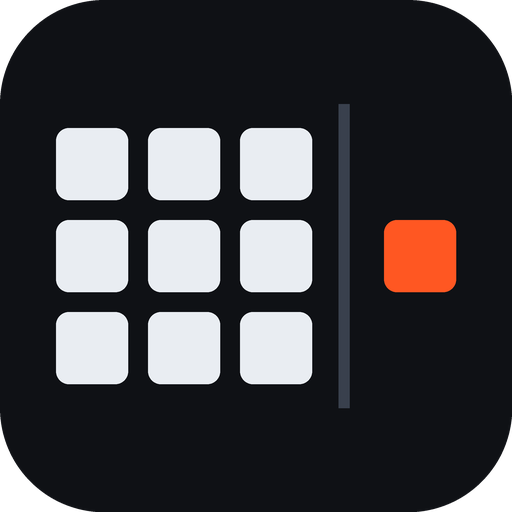
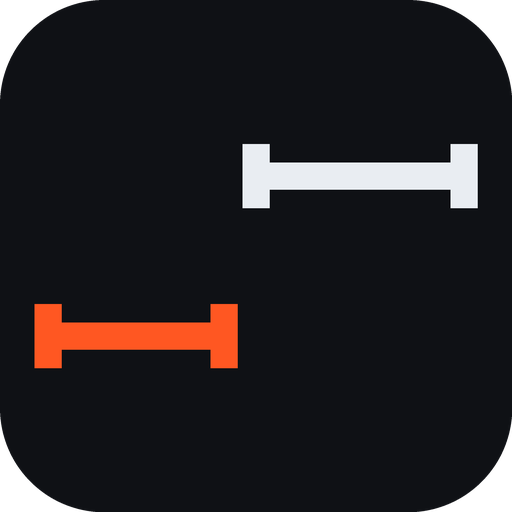
feat: replace the mark with two intervals that do not overlap
The old mark was a tile of cells with one cell outside it. On a dark
rounded square it read as a generic app launcher with a notification
badge, which is not what this is.

The new mark is the claim the tool exists to make: two confidence
intervals, plotted on a time axis running left to right. The orange
interval is the kernel, the light one is the PyTorch baseline
re-measured in the same run, and they do not overlap — which is the
difference between a speedup and a number someone wants to be true.

It encodes both structural rules at once. Never report a bare number:
a single point would be exactly the lie the project refuses to tell.
Re-measure the baseline every run: there are two intervals here, not
one interval against a remembered constant.

Four other directions were drawn and rejected against real renders at
512, 48, 32, 24 and 16px rather than by argument:

- a crucible vessel, for the repo name — becomes a coffee cup at 20px
- a bar chart with one tall bar — the icon every analytics product has
- offset bars for "strides" — reads as a text-align or menu control
- the tile-and-stray-cell mark — the app-launcher problem above

The error-bar form then needed three passes of its own. Equal stroke
weights for line and caps produced a perfect letter H; so did caps
whose height approached the bar's length. Short caps on long bars is
what makes it read as a measurement. That constraint is now a comment
next to CAP_H so the next person does not rediscover it.
[…]

Changed region(s): [[0.0625, 0.1875, 0.9375, 0.8125], [0.75, 0.4062, 0.9062, 0.5938]]

diff --git a/scripts/make_icon.py b/scripts/make_icon.py
@@ -2,10 +2,17 @@
 
     python scripts/make_icon.py
 
-The mark is the product in one glyph: a tile of cells, and one cell that landed
-outside it. That is `1025-contiguous-float32` — the minimal failing case the
-shrinker reports for a kernel that masks against `(n // BLOCK) * BLOCK` instead
-of `n`. The tile is fine. The element past its edge is the bug.
+The mark is the claim this tool exists to make: two confidence intervals that
+do not overlap. Time runs left to right, so the orange interval (the kernel) is
+faster than the white one (the PyTorch baseline, re-measured in the same run),
+and the gap between them is why that is a real result rather than noise.
+
+It encodes the two non-negotiable rules at once — never report a bare number,
+and re-measure the baseline every run. A single point would be exactly the lie
+the project refuses to tell.
+
+An earlier mark drew a tile with one cell outside it. It read as a generic app
+launcher with a notification badge, so it was replaced.
 
 Colours track the mkdocs Material palette (primary black, accent deep orange)
 so the docs site, the README and the favicon are one system.
@@ -22,15 +29,18 @@ from pathlib import Path
 from PIL import Image, ImageDraw, ImageFont
 
 # ── Geometry, in a 64x64 viewBox ──────────────────────────────────────────
+# Each interval is (x0, x1, y). Time runs left to right: the accent interval
+# sits entirely left of the light one, and they do not touch. Do not let them
+# overlap — an overlap is the picture of an unproven speedup.
 VIEW = 64.0
-CELL = 9.0
-GAP = 2.5
-TILE_X, TILE_Y = 7.0, 16.0
-ROWS = COLS = 3
-BOUNDARY_X = 43.0
-STRAY_X, STRAY_Y = 48.0, 27.5
-RADIUS = 13.0        # background corner radius
-CELL_RADIUS = 1.6
+BASELINE = (32.0, 58.0, 22.0)   # PyTorch, re-measured this run
+KERNEL = (6.0, 28.0, 42.0)      # the kernel under test
+CAP_H = 4.0                     # half-height of the end caps
+# Caps stay short relative to the bar. When they approach the bar's length the
+# glyph stops reading as an error bar and starts reading as the letter H.
+LINE_W = 3.4
+CAP_W = 3.4
+RADIUS = 13.0                   # background corner radius
 
 # ── Colour ────────────────────────────────────────────────────────────────
 INK = "#0F1115"      # background, near-black to match `primary: black`
@@ -41,32 +51,27 @@ EDGE = "#39404D"     # the tile boundary itself
 ASSETS = Path(__file__).resolve().parent.parent / "docs" / "assets"
 
 
-def _cells() -> list[tuple[float, float]]:
-    return [
-        (TILE_X + c * (CELL + GAP), TILE_Y + r * (CELL + GAP))
-        for r in range(ROWS)
-        for c in range(COLS)
-    ]
+def _intervals() -> list[tuple[tuple[float, float, float], str]]:
+    return [(BASELINE, CELL_FG), (KERNEL, ACCENT)]
 
 
 def svg() -> str:
     parts = [
-        f'<svg xmlns="http://www.w3.org/2000/svg" viewBox="0 0 64 64" '
-        f'width="64" height="64" role="img" aria-label="shapesandstrides">',
+        '<svg xmlns="http://www.w3.org/2000/svg" viewBox="0 0 64 64" '
+        'width="64" height="64" role="img" '
+        'aria-label="two confidence intervals that do not overlap">',
         f'<rect width="64" height="64" rx="{RADIUS}" fill="{INK}"/>',
-        f'<line x1="{BOUNDARY_X}" y1="{TILE_Y - 3}" x2="{BOUNDARY_X}" '
-        f'y2="{TILE_Y + ROWS * CELL + (ROWS - 1) * GAP + 3}" '
-        f'stroke="{EDGE}" stroke-width="1.4" stroke-linecap="round"/>',
     ]
-    for x, y in _cells():
+    for (x0, x1, y), colour in _intervals():
         parts.append(
-            f'<rect x="{x}" y="{y}" width="{CELL}" height="{CELL}" '
-            f'rx="{CELL_RADIUS}" fill="{CELL_FG}"/>'
+            f'<line x1="{x0}" y1="{y}" x2="{x1}" y2="{y}" stroke="{colour}" '
+            f'stroke-width="{LINE_W}" stroke-linecap="butt"/>'
         )
-    parts.append(
-        f'<rect x="{STRAY_X}" y="{STRAY_Y}" width="{CELL}" height="{CELL}" '
-        f'rx="{CELL_RADIUS}" fill="{ACCENT}"/>'
-    )
+        for x in (x0, x1):
+            parts.append(
+                f'<line x1="{x}" y1="{y - CAP_H}" x2="{x}" y2="{y + CAP_H}" '
+                f'stroke="{colour}" stroke-width="{CAP_W}" stroke-linecap="round"/>'
+            )
     parts.append("</svg>")
     return "\n".join(parts) + "\n"
 
@@ -74,21 +79,16 @@ def svg() -> str:
 def _draw_mark(d: ImageDraw.ImageDraw, ox: float, oy: float, k: float,
                background: bool = True) -> None:
     """Draw the mark at scale `k`, origin (ox, oy). k = px per viewBox unit."""
-    def box(x, y, w, h):
-        return [ox + x * k, oy + y * k, ox + (x + w) * k, oy + (y + h) * k]
-
     if background:
-        d.rounded_rectangle(box(0, 0, VIEW, VIEW), radius=RADIUS * k, fill=INK)
-    y0 = TILE_Y - 3
-    y1 = TILE_Y + ROWS * CELL + (ROWS - 1) * GAP + 3
-    d.line(
-        [ox + BOUNDARY_X * k, oy + y0 * k, ox + BOUNDARY_X * k, oy + y1 * k],
-        fill=EDGE, width=max(1, round(1.4 * k)),
-    )
-    for x, y in _cells():
-        d.rounded_rectangle(box(x, y, CELL, CELL), radius=CELL_RADIUS * k, fill=CELL_FG)
-    d.rounded_rectangle(box(STRAY_X, STRAY_Y, CELL, CELL),
-                        radius=CELL_RADIUS * k, fill=ACCENT)
+        d.rounded_rectangle([ox, oy, ox + VIEW * k, oy + VIEW * k],
+                            radius=RADIUS * k, fill=INK)
+    for (x0, x1, y), colour in _intervals():
+        d.line([ox + x0 * k, oy + y * k, ox + x1 * k, oy + y * k],
+               fill=colour, width=max(1, round(LINE_W * k)))
+        for x in (x0, x1):
+            d.line([ox + x * k, oy + (y - CAP_H) * k,
+                    ox + x * k, oy + (y + CAP_H) * k],
+                   fill=colour, width=max(1, round(CAP_W * k)))
 
 
 def png(size: int, path: Path, ss: int = 4) -> None:
@@ -135,10 +135,10 @@ def social(path: Path, ss: int = 2) -> None:
         return text
 
     # ── left column ──
-    mark = 84 * ss
+    mark = 132 * ss
     glyph = Image.new("RGBA", (mark, mark), (0, 0, 0, 0))
     _draw_mark(ImageDraw.Draw(glyph), 0, 0, mark / VIEW, background=False)
-    img.paste(glyph, (M, 146 * ss), glyph)
+    img.paste(glyph, (M - 14 * ss, 128 * ss), glyph)
 
     wf = _font("segoeuib.ttf", 50 * ss)
     d.text((M, 258 * ss), _fit("shapesandstrides", wf, "wordmark"), font=wf, fill=CELL_FG)
